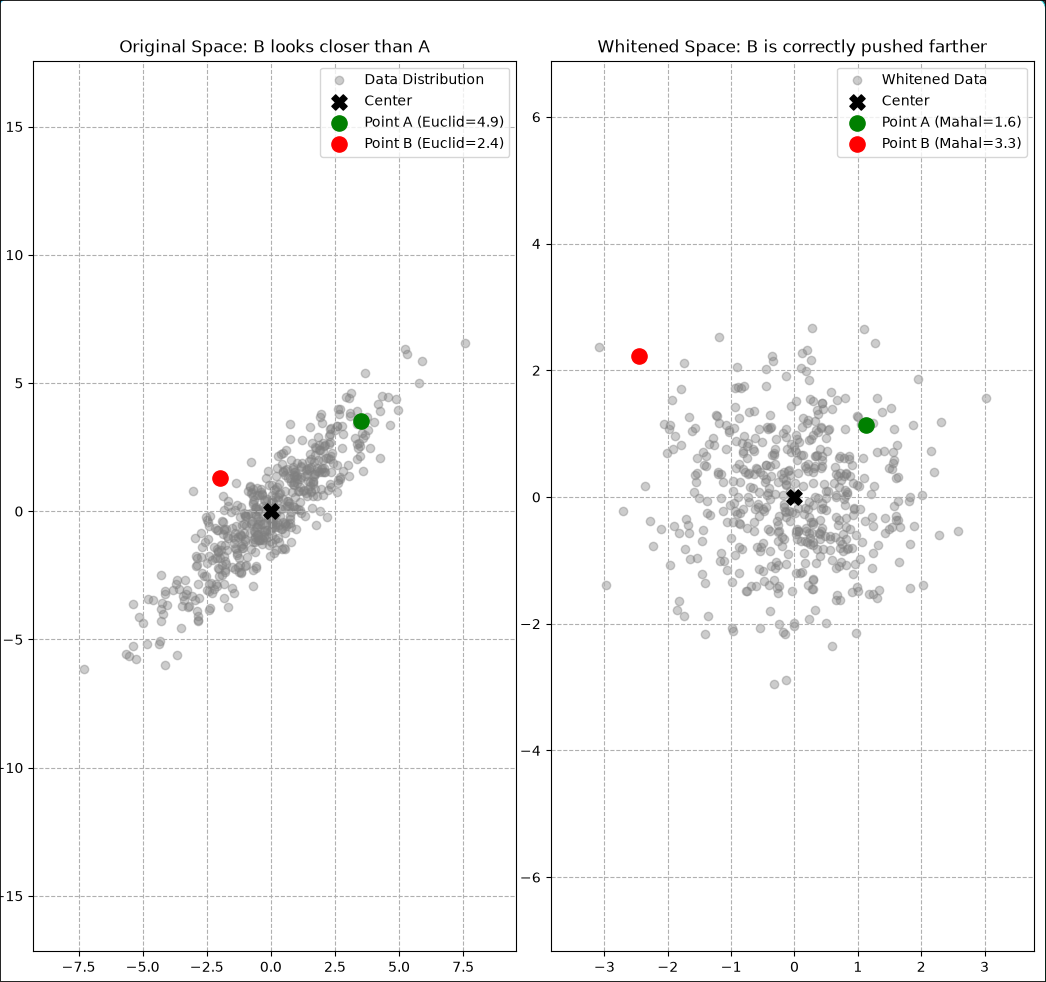
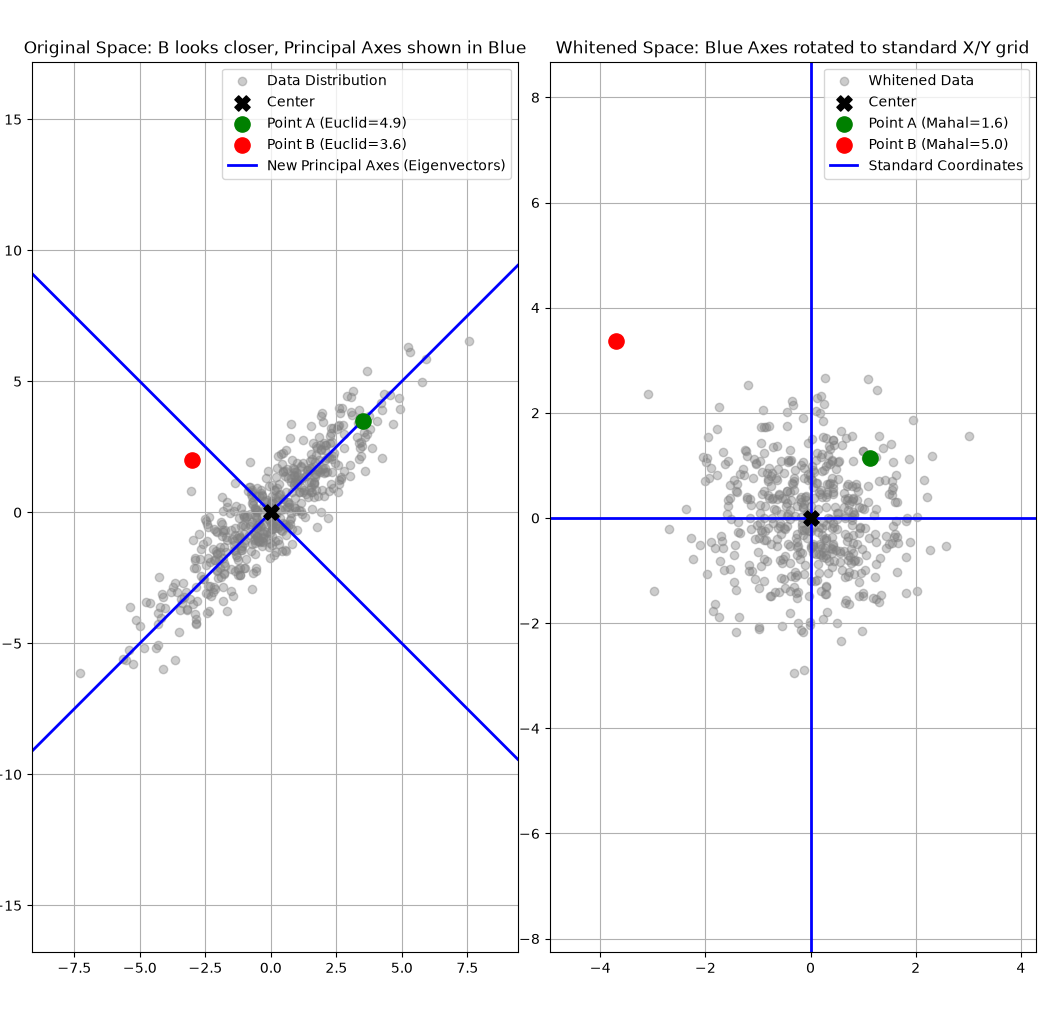
Add the axis of mahalanobis_distance

diff --git a/docs/utils/ma_distance.md b/docs/utils/ma_distance.md
@@ -30,7 +30,7 @@ p_A = np.array(
     [3.5, 3.5]
 )  # Point A: Far in space, but aligns with the data distribution
 p_B = np.array(
-    [-2.0, 1.3]
+    [-3.0, 2.0]
 )  # Point B: Close to center, but completely violates the correlation
 
 # 3. Eigenvalue decomposition for whitening transformation
@@ -44,37 +44,18 @@ p_A_trans = p_A @ whitening_matrix.T
 p_B_trans = p_B @ whitening_matrix.T
 
 # 5. Distance Calculations
-# Euclidean Distances (Original Space)
 euclid_A = np.linalg.norm(p_A - p_center)
 euclid_B = np.linalg.norm(p_B - p_center)
 
-# Mahalanobis Distances (Original Space via formula)
 inv_cov = np.linalg.inv(cov)
 mahal_A = np.sqrt((p_A - p_center).T @ inv_cov @ (p_A - p_center))
 mahal_B = np.sqrt((p_B - p_center).T @ inv_cov @ (p_B - p_center))
 
-# Verify Euclidean Distances in Transformed Space (Should equal Mahalanobis)
-euclid_A_trans = np.linalg.norm(p_A_trans - p_center_trans)
-euclid_B_trans = np.linalg.norm(p_B_trans - p_center_trans)
-
-# Print Verification
-print("=== Original Space (Euclidean) ===")
-print(f"Euclidean Distance to A (In-distribution): {euclid_A:.4f}")
-print(
-    f"Euclidean Distance to B (Outlier):        {euclid_B:.4f}  <-- Misleadingly shorter!"
-)
-
-print("\n=== Transformed Space / Mahalanobis ===")
-print(f"Mahalanobis Distance to A:               {mahal_A:.4f}")
-print(
-    f"Mahalanobis Distance to B:               {mahal_B:.4f}  <-- Correctly identifies B as farther!"
-)
-
 # 6. Plotting
-fig, ax = plt.subplots(1, 2, figsize=(14, 6))
+fig, ax = plt.subplots(1, 2, figsize=(15, 6))
 ax_flat = np.asarray(ax).flatten()
 
-# Left plot: Original space (Elongated Ellipse)
+# --- Left plot: Original space (Elongated Ellipse with Principal Axes lines) ---
 ax_flat[0].scatter(X[:, 0], X[:, 1], alpha=0.4, color="gray", label="Data Distribution")
 ax_flat[0].scatter(
     p_center[0], p_center[1], color="black", s=120, zorder=5, marker="X", label="Center"
@@ -95,12 +76,25 @@ ax_flat[0].scatter(
     zorder=5,
     label=f"Point B (Euclid={euclid_B:.1f})",
 )
-ax_flat[0].set_title("Original Space: B looks closer than A")
+
+for i in range(len(eigenvalues)):
+    direction = eigenvectors[:, i]
+    # slope = delta_y / delta_x
+    slope_val = direction[1] / direction[0]
+    ax_flat[0].axline(
+        xy1=(p_center[0], p_center[1]),
+        slope=slope_val,
+        color="blue",
+        linewidth=2,
+        label="New Principal Axes (Eigenvectors)" if i == 0 else "",
+    )
+
+ax_flat[0].set_title("Original Space: B looks closer, Principal Axes shown in Blue")
 ax_flat[0].axis("equal")
 ax_flat[0].legend()
-ax_flat[0].grid(True, linestyle="--")
+ax_flat[0].grid(True)
 
-# Right plot: Transformed space (Perfect Circle)
+# --- Right plot: Transformed space (Perfect Circle with Standard Axes) ---
 ax_flat[1].scatter(
     X_transformed[:, 0],
     X_transformed[:, 1],
@@ -133,10 +127,17 @@ ax_flat[1].scatter(
     zorder=5,
     label=f"Point B (Mahal={mahal_B:.1f})",
 )
-ax_flat[1].set_title("Whitened Space: B is correctly pushed farther")
+
+# Plot the standard horizontal and vertical axes in the new space for comparison
+ax_flat[1].axhline(y=0, color="blue", linewidth=2, label="Standard Coordinates")
+ax_flat[1].axvline(x=0, color="blue", linewidth=2)
+
+ax_flat[1].set_title("Whitened Space: Blue Axes rotated to standard X/Y grid")
 ax_flat[1].axis("equal")
 ax_flat[1].legend()
-ax_flat[1].grid(True, linestyle="--")
+ax_flat[1].grid(
+    True,
+)
 
 plt.tight_layout()
 plt.show()
